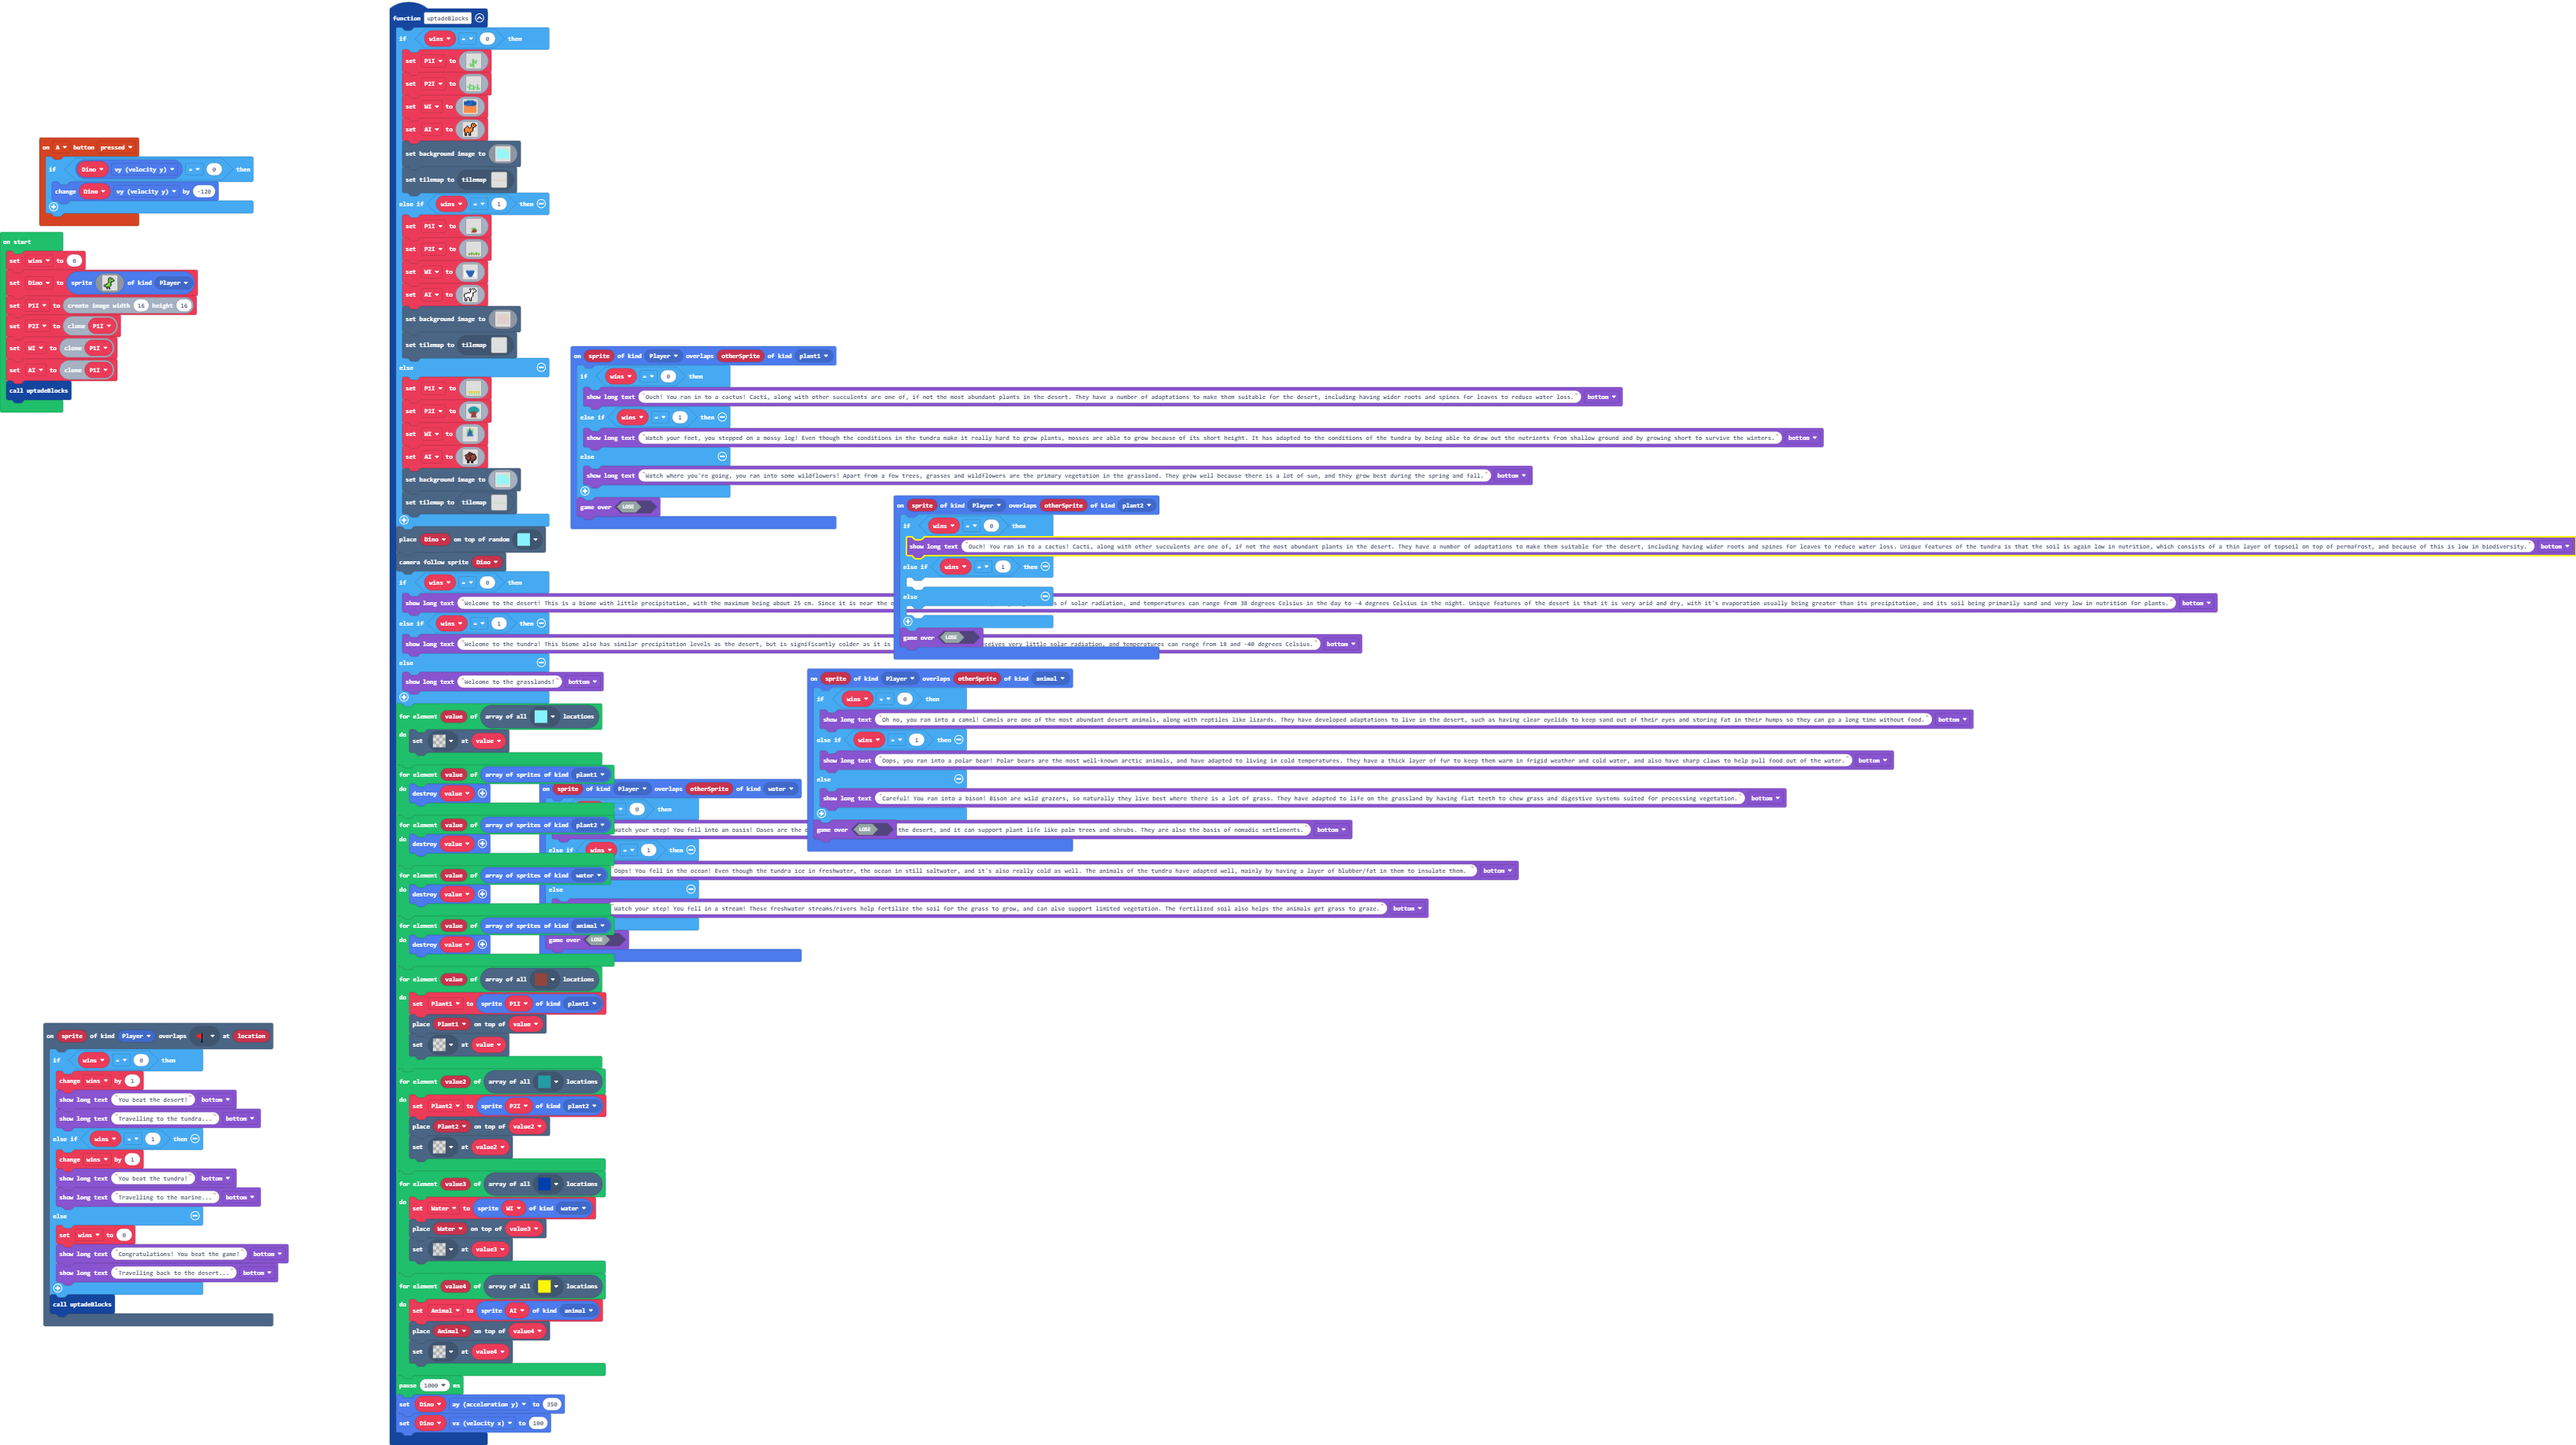
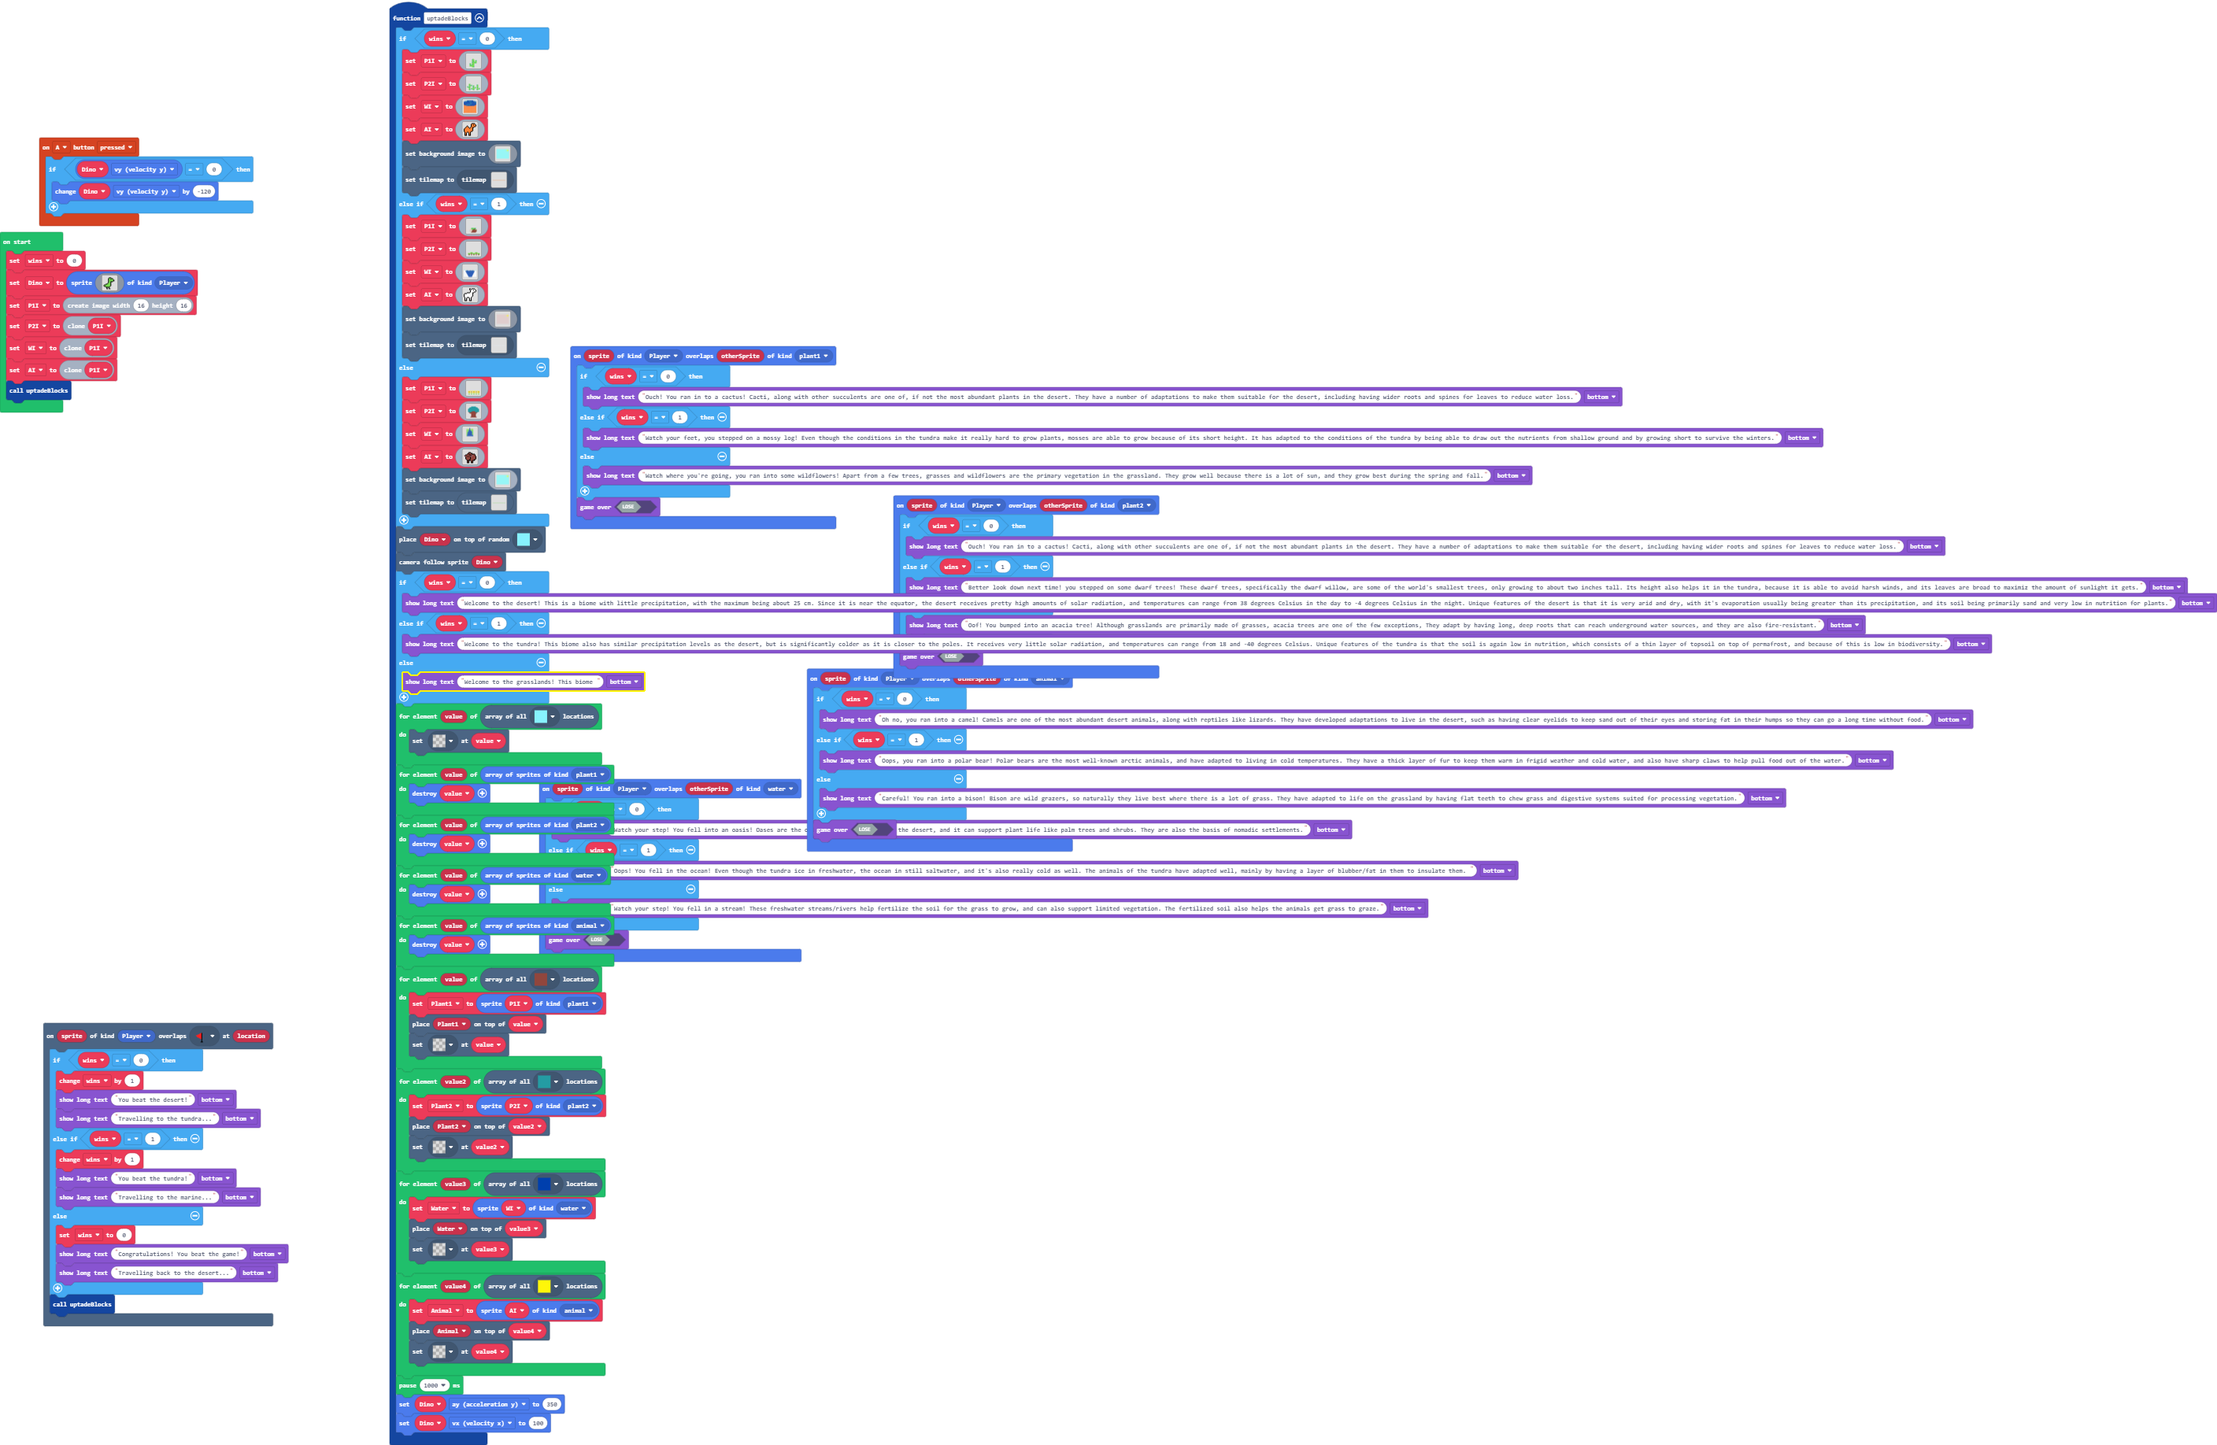
Update main.blocks, main.ts

Changed region(s): [[0.0, 0.0, 1.0, 1.0], [0.5625, 0.2484, 0.8438, 0.3415], [0.3125, 0.652, 0.375, 0.683]]

diff --git a/main.ts b/main.ts
@@ -6,11 +6,11 @@ namespace SpriteKind {
 }
 sprites.onOverlap(SpriteKind.Player, SpriteKind.plant2, function (sprite, otherSprite) {
     if (wins == 0) {
-        game.showLongText("Ouch! You ran in to a cactus! Cacti, along with other succulents are one of, if not the most abundant plants in the desert. They have a number of adaptations to make them suitable for the desert, including having wider roots and spines for leaves to reduce water loss. Unique features of the tundra is that the soil is again low in nutrition, which consists of a thin layer of topsoil on top of permafrost, and because of this is low in biodiversity.", DialogLayout.Bottom)
+        game.showLongText("Ouch! You ran in to a cactus! Cacti, along with other succulents are one of, if not the most abundant plants in the desert. They have a number of adaptations to make them suitable for the desert, including having wider roots and spines for leaves to reduce water loss.", DialogLayout.Bottom)
     } else if (wins == 1) {
-    	
+        game.showLongText("Better look down next time! you stepped on some dwarf trees! These dwarf trees, specifically the dwarf willow, are some of the world's smallest trees, only growing to about two inches tall. Its height also helps it in the tundra, because it is able to avoid harsh winds, and its leaves are broad to maximiz the amount of sunlight it gets.", DialogLayout.Bottom)
     } else {
-    	
+        game.showLongText("Oof! You bumped into an acacia tree! Although grasslands are primarily made of grasses, acacia trees are one of the few exceptions, They adapt by having long, deep roots that can reach underground water sources, and they are also fire-resistant.", DialogLayout.Bottom)
     }
     game.gameOver(false)
 })
@@ -691,9 +691,9 @@ function uptadeBlocks () {
     if (wins == 0) {
         game.showLongText("Welcome to the desert! This is a biome with little precipitation, with the maximum being about 25 cm. Since it is near the equator, the desert receives pretty high amounts of solar radiation, and temperatures can range from 38 degrees Celsius in the day to -4 degrees Celsius in the night. Unique features of the desert is that it is very arid and dry, with it's evaporation usually being greater than its precipitation, and its soil being primarily sand and very low in nutrition for plants.", DialogLayout.Bottom)
     } else if (wins == 1) {
-        game.showLongText("Welcome to the tundra! This biome also has similar precipitation levels as the desert, but is significantly colder as it is closer to the poles. It receives very little solar radiation, and temperatures can range from 18 and -40 degrees Celsius.", DialogLayout.Bottom)
+        game.showLongText("Welcome to the tundra! This biome also has similar precipitation levels as the desert, but is significantly colder as it is closer to the poles. It receives very little solar radiation, and temperatures can range from 18 and -40 degrees Celsius. Unique features of the tundra is that the soil is again low in nutrition, which consists of a thin layer of topsoil on top of permafrost, and because of this is low in biodiversity.", DialogLayout.Bottom)
     } else {
-        game.showLongText("Welcome to the grasslands!", DialogLayout.Bottom)
+        game.showLongText("Welcome to the grasslands! This biome ", DialogLayout.Bottom)
     }
     for (let value of tiles.getTilesByType(assets.tile`myTile6`)) {
         tiles.setTileAt(value, assets.tile`transparency16`)
